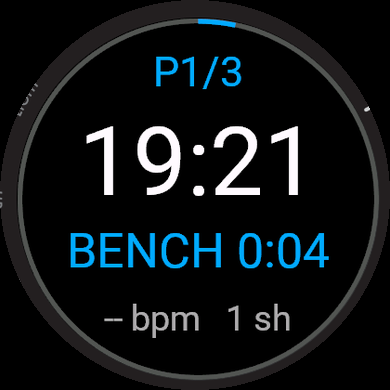
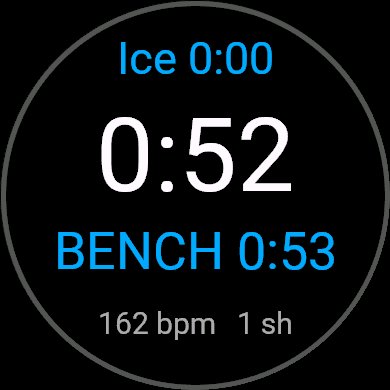
Update the README and screenshots for the app as it now is
The README still described the period clock, the intermissions and the
auto-end setting, all of which were removed, and the settings table listed
five settings that no longer exist. The on-screen diagram still showed a
period number and a period clock.

New screenshots for the states that changed: the header now carries total ice
time, the ring fills with the shift rather than the period, and the
intermission shot is replaced by the two-press pause prompt, which is a thing
the app does and the intermission no longer is. The summary screenshot is kept
- that screen did not change - rather than retaken, because the simulator has
no accelerometer and a summary captured there reads Shifts 7, Ice 0:00.

Also: BACK is the key that corrects the detector, not UP; publishing calls
package.sh rather than the export.sh that does not exist; and the layout lists
the detector replay harness and its write-up.

diff --git a/README.md b/README.md
@@ -1,16 +1,15 @@
 # Garmin Hockey Tracker
 
 A Connect IQ watch app that tracks an ice hockey game from your wrist **without
-being touched**. One press at the opening faceoff; after that the app runs the
-periods, runs the intermissions, and works out every shift and every spell on
-the bench by itself. It records a real hockey activity that syncs to Garmin
-Connect.
+being touched**. One press at the opening faceoff; after that it works out
+every shift and every spell on the bench by itself and keeps recording until
+you stop it. It records a real hockey activity that syncs to Garmin Connect.
 
 Built and tested on the **Forerunner 570**. The layout is resolution-independent,
 so the same build runs across the Garmin watch range.
 
 <p align="center">
-  <img src="docs/demo.gif" width="300" alt="A game being tracked: the period clock runs, the shift clock opens and closes by itself, and the summary lands at the end" />
+  <img src="docs/demo.gif" width="300" alt="A game being tracked: the shift clock opens and closes by itself, and the summary lands at the end" />
 </p>
 <p align="center">
   <sub>A short game tracked end to end, in real time &middot;
@@ -23,12 +22,12 @@ so the same build runs across the Garmin watch range.
   <img src="docs/screenshots/03-bench.png" width="32%" alt="On the bench" />
 </p>
 <p align="center">
-  <img src="docs/screenshots/04-intermission.png" width="32%" alt="Intermission counting down" />
+  <img src="docs/screenshots/04-press-again.png" width="32%" alt="Pausing asks for a second press" />
   <img src="docs/screenshots/05-menu.png" width="32%" alt="The stop menu" />
   <img src="docs/screenshots/06-summary.png" width="32%" alt="Post-game summary" />
 </p>
 <p align="center">
-  <sub>Ready &middot; on the ice &middot; on the bench &middot; intermission &middot; the stop menu &middot; final summary</sub>
+  <sub>Ready &middot; on the ice &middot; on the bench &middot; pausing asks twice &middot; the stop menu &middot; final summary</sub>
 </p>
 
 ---
@@ -38,24 +37,26 @@ so the same build runs across the Garmin watch range.
 - **Automatic shift detection** — no button per line change. The app decides
   when you are on the ice and when you are on the bench, and splits the
   activity accordingly.
-- **Period clock** — 3 × 20 minutes by default, ends itself at zero with a
-  double buzz, and starts the next period after a one-minute intermission
-  without being asked.
+- **One continuous game clock** — no periods to set up and nothing that ends
+  the activity on a schedule. A real game runs longer than the sum of its
+  periods, so the recording stops when you stop it and not before.
 - **Shift clock** — green → amber → red as the shift runs long, with a long,
-  full-strength buzz at your target length so it is felt through a glove.
+  full-strength buzz at your target length so it is felt through a glove. The
+  ring around the screen fills with it, readable without reading a number.
+- **Total ice time on screen all game**, not only in the summary afterwards.
 - **On-ice heart rate, separated from bench heart rate** — the number this app
   exists to produce. See below.
 - **GPS on** — speed and distance are recorded when a fix is available.
 - **One screen** — everything visible at a glance, no paging mid-game.
 
 ```
-         P2/3                period
+       Ice 14:06            total time on the ice so far
       ┌─────────────┐
-         12:34              period clock (or the intermission countdown)
+         42:18              the game clock, counting up
        ON 0:42              green → amber → red; BENCH in blue
       148 bpm  9 sh         heart rate and shifts so far
       └─────────────┘
-          the outer ring fills as the period runs out
+          the outer ring fills as the current shift runs toward its target
 ```
 
 ## How the shift detection works
@@ -85,8 +86,12 @@ So motion decides, and the other two only corroborate:
   happened. Without that, every shift would lose its first seconds to the bench
   and every bench spell its first seconds to the shift.
 
-It will get some boundaries wrong. `UP` flips the state by hand when it does,
-and the menu offers the same correction in words.
+It will get some boundaries wrong. `BACK` — the lap key — flips the state by
+hand when it does, and the menu offers the same correction in words.
+
+The band the boundary sits in was fitted to a real game rather than guessed;
+[docs/detector-tuning.md](docs/detector-tuning.md) records the method, the
+numbers and what one game does not prove.
 
 ## Why on-ice heart rate is the point
 
@@ -108,10 +113,10 @@ Run app transfers. Nothing here is needed during normal play.
 
 | Button | Action |
 |---|---|
-| `START` / `STOP` | Start the game. **Press twice** to stop into the stop menu — resume, save, discard — exactly as stopping a run does. Skips the rest of an intermission. |
+| `START` / `STOP` | Start the game. **Press twice** to stop into the stop menu — resume, save, discard — exactly as stopping a run does. |
 | `BACK` (`LAP`) | Line change. `BACK` is the lap key in every Garmin activity, and a lap here *is* a shift, so this is the button that corrects the detector when it has the state wrong. |
 | `UP` / `DOWN` | Nothing. There is one data screen by design, so there is nothing to page through. |
-| `MENU` (hold `UP`) | Correct the shift state, pause, end the period, end or discard the game. |
+| `MENU` (hold `UP`) | Correct the shift state, pause, end or discard the game. |
 
 Two things follow from that, and both are deliberate departures from where this
 app started:
@@ -119,8 +124,8 @@ app started:
 - **`BACK` no longer ends the game.** On a Garmin watch `BACK` is never the exit
   during an activity, and a knock against the boards should not be able to end a
   game. Ending now goes through the stop menu: `START`, then *End & Save*.
-- **`DOWN` no longer ends the period.** A mis-press inside a glove should not be
-  able to burn a period. It is still in the menu.
+- **`DOWN` does nothing.** It used to end the period, and a mis-press inside a
+  glove could burn one. There are no periods now, so there is nothing to burn.
 - **Pausing takes two presses, and the screen ignores taps.** This watch has a
   touchscreen, and Connect IQ turns a tap into the same `SELECT` behaviour as
   the `START` button — so a glove or a sleeve across the glass used to stop the
@@ -136,15 +141,10 @@ Editable in Garmin Connect; the defaults are a regulation game.
 
 | Setting | Default | Range |
 |---|---|---|
-| Periods per game | 3 | 1–9 |
-| Period length | 20 min | 1–60 |
-| Intermission | 60 s | 0–1200 |
 | Shift alert | 60 s | 15–600 |
 | Shift sensitivity | Normal | Low / Normal / High |
 | Shift alerts | on | |
 | Lap per shift | on | |
-| Count period down | on | |
-| Auto-end game | **off** | |
 | Use GPS | on | |
 | Activity type | Ice Hockey | Ice Hockey / Ice Skate |
 
@@ -152,18 +152,14 @@ Editable in Garmin Connect; the defaults are a regulation game.
 means less movement counts as being on the ice — raise it if shifts are being
 missed, lower it if standing on the bench is being counted as a shift.
 
-**Auto-end game** decides what happens when the last period's clock runs out.
-Off — the default — the game carries on into overtime: the clock counts up from
-zero, the activity keeps recording, and the game ends when you end it. The
-header reads `OT` and the clock turns orange.
-
-It is off by default because the alternative lost a game. Until 2026-11-03 the
-app saved and closed the activity the moment the last period expired, and it
-did exactly that at 3600.79 seconds of clock time — three twenty-minute periods,
-to the second — while the game was still being played. A real game always runs
-longer than the sum of its periods: stoppages, overtime, a running clock nobody
-told the watch about. Turn this on only if a game that stops itself on schedule
-is genuinely what you want.
+**There is no period setting, and that is deliberate.** The app used to run
+three twenty-minute periods and end the activity when the last one expired. It
+did exactly that on 2026-11-03, at 3600.79 seconds of clock time — three
+periods to the second — while the game was still being played, and the last
+nine minutes of it were never recorded. The periods were a fiction regardless:
+the app has no way to know the real game clock, which stops for whistles and
+penalties and everything else the watch cannot see, so they drifted from the
+game's within minutes. A game is now one continuous recording.
 
 **Use GPS** is on because speed and distance are worth having when a fix exists.
 Expect no fix inside most arenas; the app degrades quietly to motion-only
@@ -239,7 +235,7 @@ lap splits still work.
 
 ```bash
 cd IndoorHockey
-./export.sh                # builds bin/IndoorHockey.iq for every product
+./package.sh               # builds bin/IndoorHockey.iq for every product
 ```
 
 Upload that at <https://apps.garmin.com/en-US/developer/upload>; the dashboard
@@ -297,6 +293,7 @@ IndoorHockey/
   manifest.xml         app id, device list, permissions
   monkey.jungle        build config
   build.sh             compile for one device
+  package.sh           build the signed .iq for every supported device
   run-sim.sh           build + launch in the simulator
   sync-products.sh     regenerate the device list from what is installed
   source/
@@ -313,9 +310,11 @@ IndoorHockey/
     settings/          properties and their Garmin Connect settings UI
     drawables/         launcher icon
 tools/
+  replay_detector.py   replay a recorded game through the detector offline
   sdkmanager-docker/   containerised SDK Manager + simulator
 docs/
   screenshots/         simulator captures used above
+  detector-tuning.md   how the detection band was fitted, and to what
 ```
 
 ### Design notes
@@ -327,9 +326,9 @@ The 1 Hz game clock is owned by the **app**, not the view, so shift detection,
 alerts and the per-second FIT fields keep running while a menu or a confirmation
 is covering the screen.
 
-Period time is game time; **shift and bench time are wall time**. Recovery
-happens during whistles and intermissions too, so a bench spell that spans a
-stoppage really is longer than the period clock says it is.
+The game clock is game time; **shift and bench time are wall time**. Recovery
+happens during whistles too, so a bench spell that spans a stoppage really is
+longer than the game clock says it is.
 
 Clocks are "time already banked" plus "running since", measured with
 `System.getTimer()`, so pausing and resuming cannot drift.
